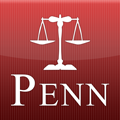
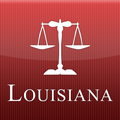
louis submitted

Changed region(s): [[0.05, 0.6, 0.95, 0.9], [0.25, 0.1, 0.75, 0.425], [0.35, 0.425, 0.65, 0.625]]

diff --git a/icsApp/icsApp/Constants.h b/icsApp/icsApp/Constants.h
@@ -22,13 +22,7 @@
 #define _API_BASE_URL                           @"https://pipeline-api.locallabs.com"
 #define _AUTHORIZATION_KEY                      @"Dq2LyMpU1nyhy5q8ST81"
 
-#define _APP_NAME                               @"Penn Record"
-
-#define _API_URL_SUFFIX_FEATURED            @"/api/v1/stories?status=published&sub_types=111&by_community=542"
-#define _API_URL_SUFFIX_LATEST              @"/api/v1/stories?status=published&sub_types=114&by_community=542"
-#define _API_URL_SUFFIX_OUR_VIEW            @"";
-#define _API_URL_SUFFIX_THEIR_VIEW          @"";
-#define _API_URL_SUFFIX_LETTER              @"";
+#define _APP_NAME                               @"Louissiana Record"
 
 
 /* ics app */
@@ -45,12 +39,12 @@
 
 
 /* Louis */
-/*
+
 #define _API_URL_SUFFIX_FEATURED            @"/api/v1/stories?status=published&sub_types=114&by_community=543"
 #define _API_URL_SUFFIX_LATEST              @"/api/v1/stories?status=published&sub_types=111&by_community=543"
 #define _API_URL_SUFFIX_OUR_VIEW            @""
 #define _API_URL_SUFFIX_THEIR_VIEW          @"/api/v1/stories?status=published&sub_types=546&by_community=543"
-#define _API_URL_SUFFIX_LETTER              @"/api/v1/stories?status=published&sub_types=547&by_community=543"*/
+#define _API_URL_SUFFIX_LETTER              @"/api/v1/stories?status=published&sub_types=547&by_community=543"
 
 /* Madison */
 /*
